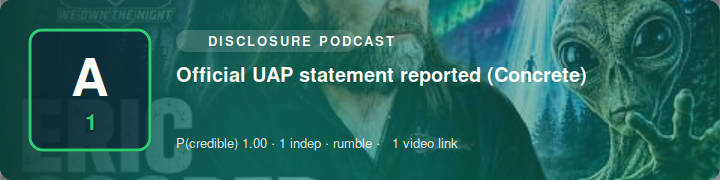
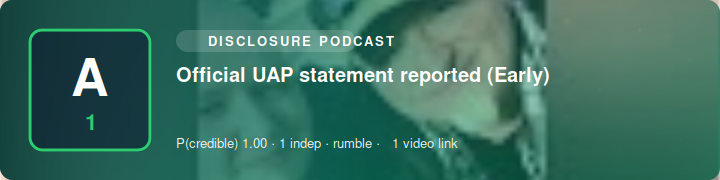
SITREP 2026-07-26 04:30 UTC

diff --git a/index.html b/index.html
@@ -1,1 +1,1 @@
-<!doctype html><meta charset=utf-8><title>Science Bob News — SITREP</title><style>body{font:16px/1.5 system-ui,sans-serif;max-width:760px;margin:2rem auto;padding:0 1rem;color:#111}h1{font-size:1.5rem}h2{margin-top:1.6rem;border-bottom:1px solid #ddd;padding-bottom:.2rem}ul{list-style:none;padding:0}li{margin:.9rem 0}.hl{font-weight:600}.meta{color:#555;font-size:.85rem}.src{font-size:.85rem}.vid{font-size:.85rem;margin-top:.15rem}.card{display:block;max-width:100%;height:auto;border-radius:8px;margin:.4rem 0 .5rem}.upd{background:#fde68a;padding:0 .3rem;border-radius:.2rem;font-size:.75rem}.sub{color:#777;font-size:.85rem}footer{color:#777;font-size:.8rem;margin-top:2rem;border-top:1px solid #ddd;padding-top:.6rem}</style><h1>🛸 Science Bob News</h1><div class="sub">UAP / UFO / USO SITREP · updated 2026-07-26 04:20 UTC · automated</div><h2>Corroborated</h2><ul><li><i>No corroborated reports.</i></li></ul><h2>Developing / unconfirmed</h2><ul><li><img class="card" src="https://n4hy.github.io/sciencebobnews-site/card_d_1.svg" alt="" width="720" height="180"><div class="hl">UAP report (Early)</div><div class="meta">reliability <b>A1</b> · P(credible)=1.0 · 1 independent source(s) · rumble</div><div class="src"><a href="https://www.youtube.com/watch?v=IyTeV6kko5A">@podcast</a></div><div class="vid">📹 <a href="https://www.youtube.com/watch?v=IyTeV6kko5A">video</a></div></li><li><img class="card" src="https://n4hy.github.io/sciencebobnews-site/card_d_2.svg" alt="" width="720" height="180"><div class="hl">UAP report (McMinnville)</div><div class="meta">reliability <b>A1</b> · P(credible)=1.0 · 1 independent source(s) · rumble</div><div class="src"><a href="https://www.youtube.com/watch?v=7OT6uJ0yzVY">@podcast</a></div><div class="vid">📹 <a href="https://www.youtube.com/watch?v=7OT6uJ0yzVY">video</a></div></li><li><img class="card" src="https://n4hy.github.io/sciencebobnews-site/card_d_3.svg" alt="" width="720" height="180"><div class="hl">UAP whistleblower testimony reported (American)</div><div class="meta">reliability <b>A1</b> · P(credible)=1.0 · 1 independent source(s) · rumble</div><div class="src"><a href="https://www.youtube.com/watch?v=LPtMaGpuK-M">@podcast</a></div><div class="vid">📹 <a href="https://www.youtube.com/watch?v=LPtMaGpuK-M">video</a></div></li><li><img class="card" src="https://n4hy.github.io/sciencebobnews-site/card_d_4.svg" alt="" width="720" height="180"><div class="hl">UAP report (Australia)</div><div class="meta">reliability <b>A1</b> · P(credible)=1.0 · 1 independent source(s) · rumble</div><div class="src"><a href="https://www.youtube.com/watch?v=ZegQhxJrJGo">@podcast</a></div><div class="vid">📹 <a href="https://www.youtube.com/watch?v=ZegQhxJrJGo">video</a></div></li><li><img class="card" src="https://n4hy.github.io/sciencebobnews-site/card_d_5.svg" alt="" width="720" height="180"><div class="hl">Official UAP statement reported (Concrete)</div><div class="meta">reliability <b>A1</b> · P(credible)=1.0 · 1 independent source(s) · rumble</div><div class="src"><a href="https://www.youtube.com/watch?v=ze5dhbpzszY">@podcast</a></div><div class="vid">📹 <a href="https://www.youtube.com/watch?v=ze5dhbpzszY">video</a></div></li></ul><footer><b>Powered by Science Bob News.</b> Free to use with credit (see LICENSE). Headlines are factual restatements in the engine's own words; click sources for originals. Single-origin reposts collapse to one source; prosaic candidates flagged where offered.</footer>
+<!doctype html><meta charset=utf-8><title>Science Bob News — SITREP</title><style>body{font:16px/1.5 system-ui,sans-serif;max-width:760px;margin:2rem auto;padding:0 1rem;color:#111}h1{font-size:1.5rem}h2{margin-top:1.6rem;border-bottom:1px solid #ddd;padding-bottom:.2rem}ul{list-style:none;padding:0}li{margin:.9rem 0}.hl{font-weight:600}.meta{color:#555;font-size:.85rem}.src{font-size:.85rem}.vid{font-size:.85rem;margin-top:.15rem}.card{display:block;max-width:100%;height:auto;border-radius:8px;margin:.4rem 0 .5rem}.upd{background:#fde68a;padding:0 .3rem;border-radius:.2rem;font-size:.75rem}.sub{color:#777;font-size:.85rem}footer{color:#777;font-size:.8rem;margin-top:2rem;border-top:1px solid #ddd;padding-top:.6rem}</style><h1>🛸 Science Bob News</h1><div class="sub">UAP / UFO / USO SITREP · updated 2026-07-26 04:30 UTC · automated</div><h2>Corroborated</h2><ul><li><i>No corroborated reports.</i></li></ul><h2>Developing / unconfirmed</h2><ul><li><img class="card" src="https://n4hy.github.io/sciencebobnews-site/card_d_1.svg" alt="" width="720" height="180"><div class="hl">UAP report (Early)</div><div class="meta">reliability <b>A1</b> · P(credible)=1.0 · 1 independent source(s) · rumble</div><div class="src"><a href="https://www.youtube.com/watch?v=IyTeV6kko5A">@podcast</a></div><div class="vid">📹 <a href="https://www.youtube.com/watch?v=IyTeV6kko5A">video</a></div></li><li><img class="card" src="https://n4hy.github.io/sciencebobnews-site/card_d_2.svg" alt="" width="720" height="180"><div class="hl">UAP report (McMinnville)</div><div class="meta">reliability <b>A1</b> · P(credible)=1.0 · 1 independent source(s) · rumble</div><div class="src"><a href="https://www.youtube.com/watch?v=7OT6uJ0yzVY">@podcast</a></div><div class="vid">📹 <a href="https://www.youtube.com/watch?v=7OT6uJ0yzVY">video</a></div></li><li><img class="card" src="https://n4hy.github.io/sciencebobnews-site/card_d_3.svg" alt="" width="720" height="180"><div class="hl">UAP whistleblower testimony reported (American)</div><div class="meta">reliability <b>A1</b> · P(credible)=1.0 · 1 independent source(s) · rumble</div><div class="src"><a href="https://www.youtube.com/watch?v=LPtMaGpuK-M">@podcast</a></div><div class="vid">📹 <a href="https://www.youtube.com/watch?v=LPtMaGpuK-M">video</a></div></li><li><img class="card" src="https://n4hy.github.io/sciencebobnews-site/card_d_4.svg" alt="" width="720" height="180"><div class="hl">UAP report (Australia)</div><div class="meta">reliability <b>A1</b> · P(credible)=1.0 · 1 independent source(s) · rumble</div><div class="src"><a href="https://www.youtube.com/watch?v=ZegQhxJrJGo">@podcast</a></div><div class="vid">📹 <a href="https://www.youtube.com/watch?v=ZegQhxJrJGo">video</a></div></li><li><img class="card" src="https://n4hy.github.io/sciencebobnews-site/card_d_5.svg" alt="" width="720" height="180"><div class="hl">Official UAP statement reported (Early)</div><div class="meta">reliability <b>A1</b> · P(credible)=1.0 · 1 independent source(s) · rumble</div><div class="src"><a href="https://www.youtube.com/watch?v=jkYp9peI3aI">@podcast</a></div><div class="vid">📹 <a href="https://www.youtube.com/watch?v=jkYp9peI3aI">video</a></div></li></ul><footer><b>Powered by Science Bob News.</b> Free to use with credit (see LICENSE). Headlines are factual restatements in the engine's own words; click sources for originals. Single-origin reposts collapse to one source; prosaic candidates flagged where offered.</footer>

diff --git a/sitrep.md b/sitrep.md
@@ -1,5 +1,5 @@
 # 🛸 Science Bob News — UAP / UFO / USO SITREP
-*Updated 2026-07-26 04:20 UTC · auto-generated · sources credited & linked · reliability ratings are automated, not editorial*
+*Updated 2026-07-26 04:30 UTC · auto-generated · sources credited & linked · reliability ratings are automated, not editorial*
 
 ## Corroborated
 _No corroborated reports this cycle._
@@ -26,10 +26,10 @@ _No corroborated reports this cycle._
    [@podcast](https://www.youtube.com/watch?v=ZegQhxJrJGo)  
    📹 [video](https://www.youtube.com/watch?v=ZegQhxJrJGo)
 
-![Official UAP statement reported (Concrete)](https://n4hy.github.io/sciencebobnews-site/card_d_5.svg)
-5. Official UAP statement reported (Concrete) — reliability A1 · 1 source(s)  
-   [@podcast](https://www.youtube.com/watch?v=ze5dhbpzszY)  
-   📹 [video](https://www.youtube.com/watch?v=ze5dhbpzszY)
+![Official UAP statement reported (Early)](https://n4hy.github.io/sciencebobnews-site/card_d_5.svg)
+5. Official UAP statement reported (Early) — reliability A1 · 1 source(s)  
+   [@podcast](https://www.youtube.com/watch?v=jkYp9peI3aI)  
+   📹 [video](https://www.youtube.com/watch?v=jkYp9peI3aI)
 
 ---
 *Powered by Science Bob News. Free to use with credit (see LICENSE). Headlines are factual restatements in the engine's own words — click through to the linked sources for originals. Reposts of a single origin are collapsed to one source; candidate prosaic explanations are flagged where offered.*
